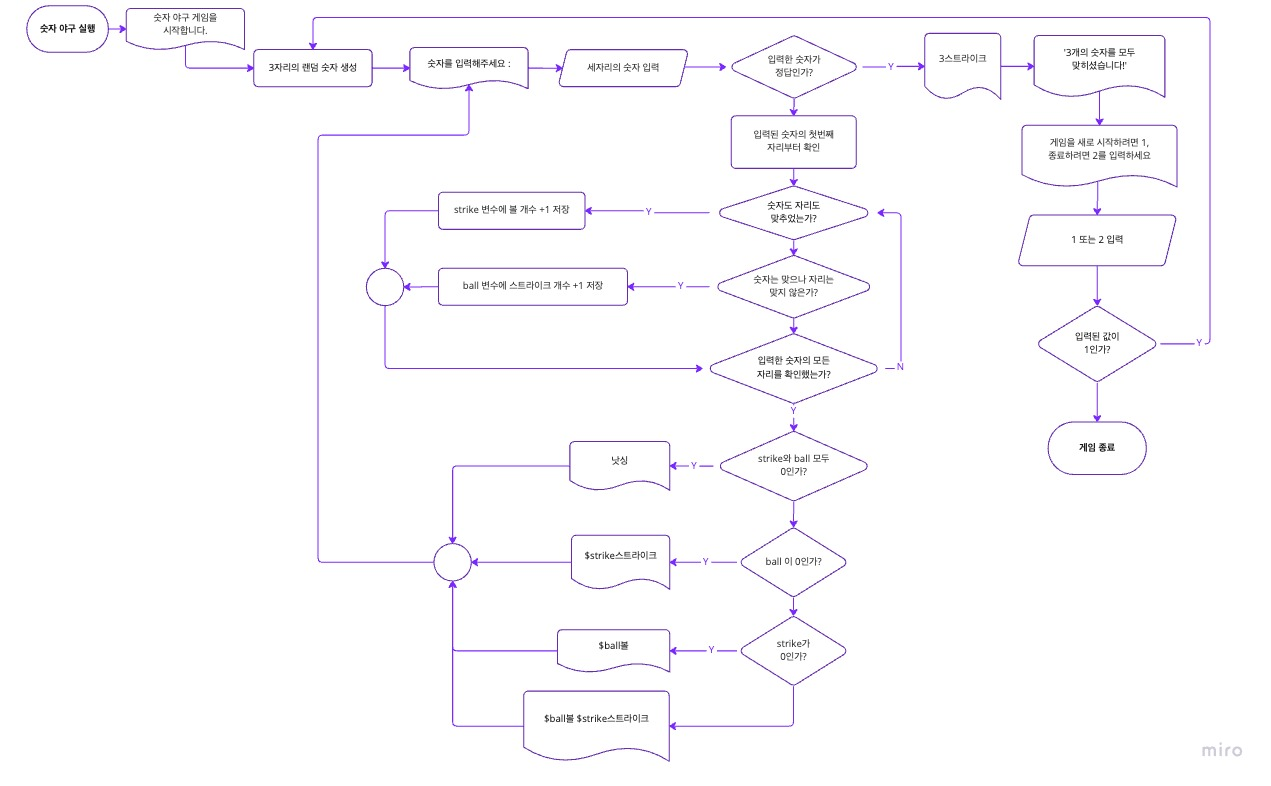
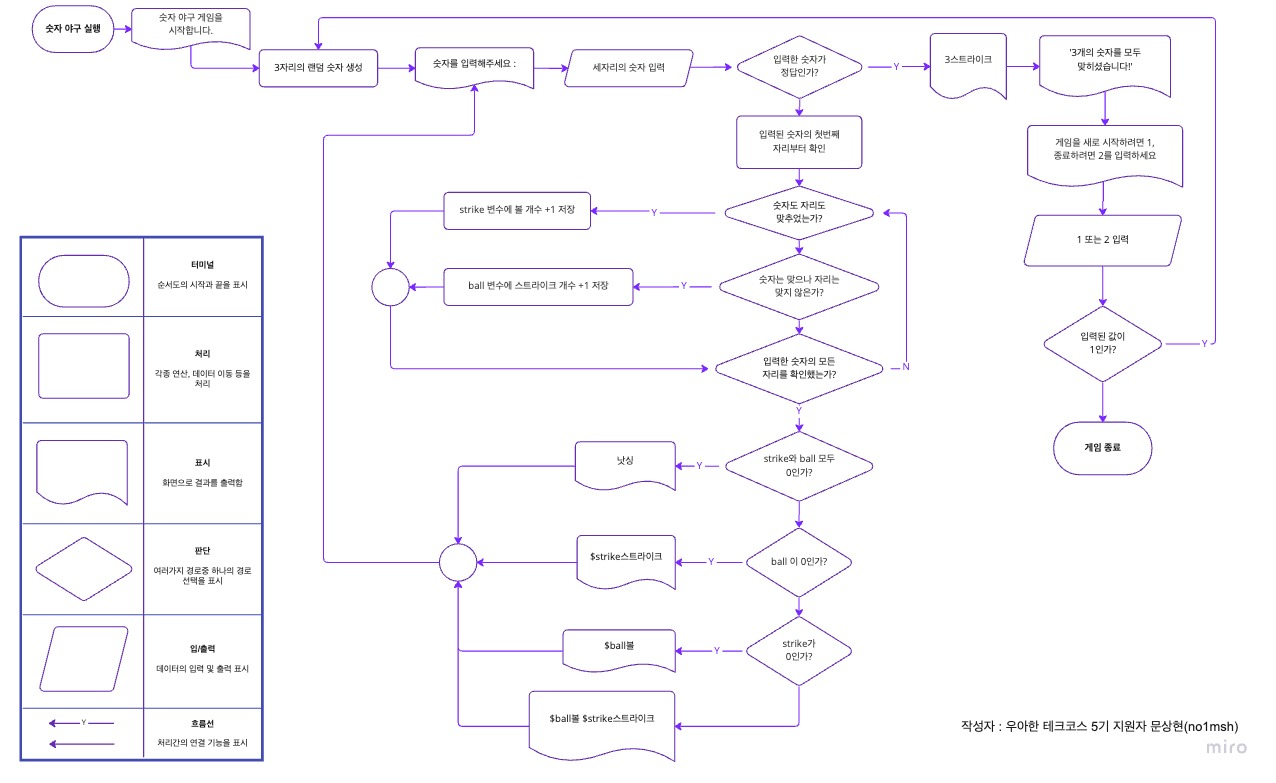
docs: 기능 목록에 예외사항 추가, 순서도 업데이트, 체크리스트 체크

diff --git a/docs/README.md b/docs/README.md
@@ -3,6 +3,12 @@
 1. 게임 시작 멘트 출력
 2. 컴퓨터가 정답숫자를 랜덤으로 생성
 3. 사용자가 숫자를 입력
+   - ⛔ 예외처리 할 목록
+   - 입력값이 비었을 때
+   - 공백이 포함되었을 때
+   - 숫자말고 다른 문자가 포함 되었을 때
+   - 3자리의 숫자가 아닐 때
+   - 3자리의 숫자가 서로 같은 숫자가 있을 때
 4. 사용자가 입력한 숫자를 비교
    1. 사용된 숫자는 맞는데 자리가 틀릴 때
    2. 사용된 숫자도 자리도 맞추었을 때
@@ -10,19 +16,21 @@
    4. 정답이 아니라면 다시 3번 기능으로 이동
 5. 사용자가 입력한 숫자에 따라 스트라이크 수와 볼 수를 출력
 6. 사용자가 정답숫자와 일치하게 입력한다면 축하 멘트 및 게임 재시작 의사 확인
-7. 사용자가 잘못된 값을 입력할 경우 `IllegalArgumentException` 발생시킨 후 애플리케이션 종료
+   - ⛔ 예외처리할 목록
+   - 재시작을 위한 입력값이 1이나 2가 아닐 때
+8. 사용자가 잘못된 값을 입력할 경우 `IllegalArgumentException` 발생시킨 후 애플리케이션 종료
 
 
 ### 💭 숫자야구 게임의 큰 흐름을 한눈에 보기 위한 순서도
 ![순서도](images/number_baseball_flowchart.jpg)
-[🔍 순서도 웹에서 자세히보기 (위 이미지는 해상도가 낮습니다.)](https://miro.com/app/board/uXjVPHeookc=/?share_link_id=838782016592)
+[🔍 순서도 웹에서 자세히보기 (위 이미지는 해상도가 낮습니다.)](https://miro.com/app/board/uXjVPHeookc=/?share_link_id=244163174614)
 
 ## ✅ 체크리스트
 
-- [ ] kotlin 코드 컨벤션 가이드를 지켰는가?
-- [ ] 변수, 또는 메소드 이름을 통해 의미를 전달 했는가?
-- [ ] indent depth가 3이 넘지 않도록 구현 했는가?
-- [ ] 메소드가 한 가지 일만 하는가?
-- [ ] AssertJ를 이용하여 기능 목록이 정상 동작함을 테스트 코드로 확인 했는가?
-- [ ] `camp.nextstep.edu.missionutils`에서 제공하는 API를 사용하여 구현 했는가?
-- [ ] 깃 커밋 메시지 컨벤션 가이드를 지켰는가?
+- [x] kotlin 코드 컨벤션 가이드를 지켰는가?
+- [x] 변수, 또는 메소드 이름을 통해 의미를 전달 했는가?
+- [x] indent depth가 3이 넘지 않도록 구현 했는가?
+- [x] 메소드가 한 가지 일만 하는가?
+- [x] AssertJ를 이용하여 기능 목록이 정상 동작함을 테스트 코드로 확인 했는가?
+- [x] `camp.nextstep.edu.missionutils`에서 제공하는 API를 사용하여 구현 했는가?
+- [x] 깃 커밋 메시지 컨벤션 가이드를 지켰는가?
